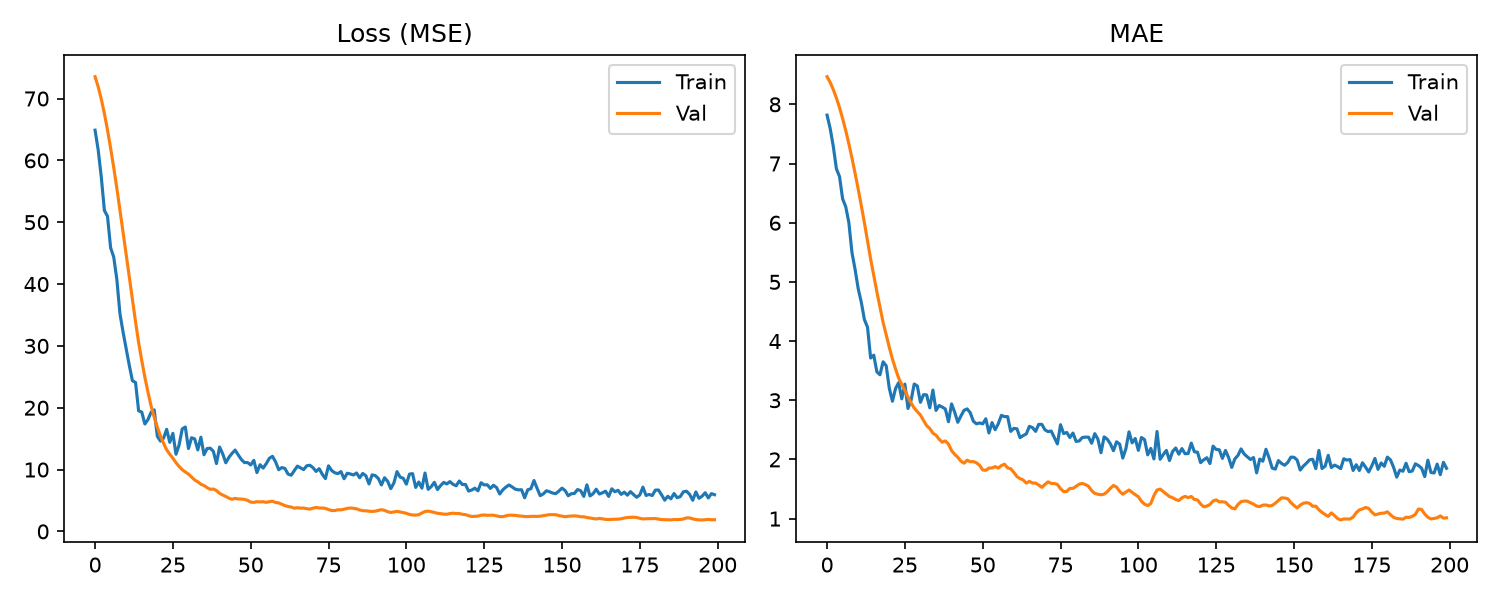
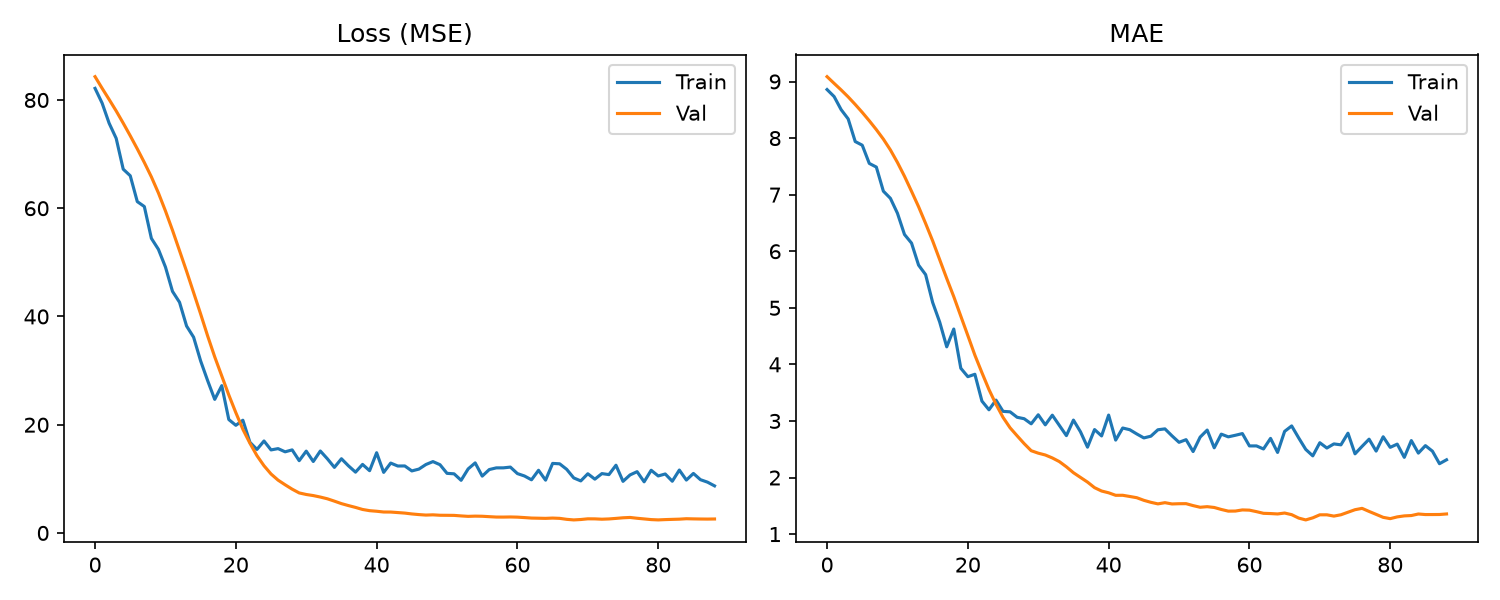
limpieza en el código principal

diff --git a/modelo_red_neuronal.py b/modelo_red_neuronal.py
@@ -8,7 +8,7 @@ import matplotlib
 matplotlib.use("Agg")
 import matplotlib.pyplot as plt
 
-# --- Nuevas importaciones para exportar a Excel con formato ---
+# ---  Para exportar a Excel con formato ---
 from openpyxl import Workbook
 from openpyxl.styles import PatternFill, Font, Alignment, Border, Side
 from openpyxl.utils.dataframe import dataframe_to_rows
@@ -216,9 +216,8 @@ plt.legend()
 plt.tight_layout()
 plt.savefig("curva_entrenamiento.png", dpi=150)
 
-# =========================================================================
-# FUNCIÓN REUTILIZABLE PARA EXPORTAR EXCEL CON COLORES
-# =========================================================================
+# FUNCIÓN PARA EXPORTAR EXCEL 
+
 def exportar_excel_con_estilos(df, output_path, sheet_title, letter_col_indices):
     wb = Workbook()
     ws = wb.active
@@ -262,9 +261,9 @@ def exportar_excel_con_estilos(df, output_path, sheet_title, letter_col_indices)
     wb.save(output_path)
 
 
-# =========================================================================
+
 # EXPORTACIÓN 1: REPORTE HISTÓRICO (BACKTESTING)
-# =========================================================================
+
 RATING_MAP = {
     12: "AAA", 11: "AA+", 10: "AA", 9: "AA-", 8: "A+", 7: "A", 6: "A-",
     5: "BBB+", 4: "BBB", 3: "BB", 2: "B", 1: "C", 0: "D"
@@ -293,9 +292,9 @@ exportar_excel_con_estilos(df_out, output_path_hist, "Backtesting", [4, 5])
 print(f"Reporte exportado a {output_path_hist} | MAE Global: {mean_absolute_error(y, preds):.2f}\n")
 
 
-# =========================================================================
+
 # EXPORTACIÓN 2: PROYECCIÓN A FUTURO (OUT-OF-SAMPLE)
-# =========================================================================
+
 print("\n" + "="*50)
 print("INICIANDO PROYECCIÓN PARA EL PRÓXIMO BOLETÍN SBS")
 print("="*50)
@@ -333,3 +332,6 @@ exportar_excel_con_estilos(df_prediccion_final, output_futuro, "Proyección", [3
 print("\n--- PREDICCIÓN PARA LA PRÓXIMA PUBLICACIÓN DE LA SBS ---")
 print(df_prediccion_final.to_string(index=False))
 print(f"\n¡Proyección exitosa! Archivo guardado en: {output_futuro}")
+
+
+
